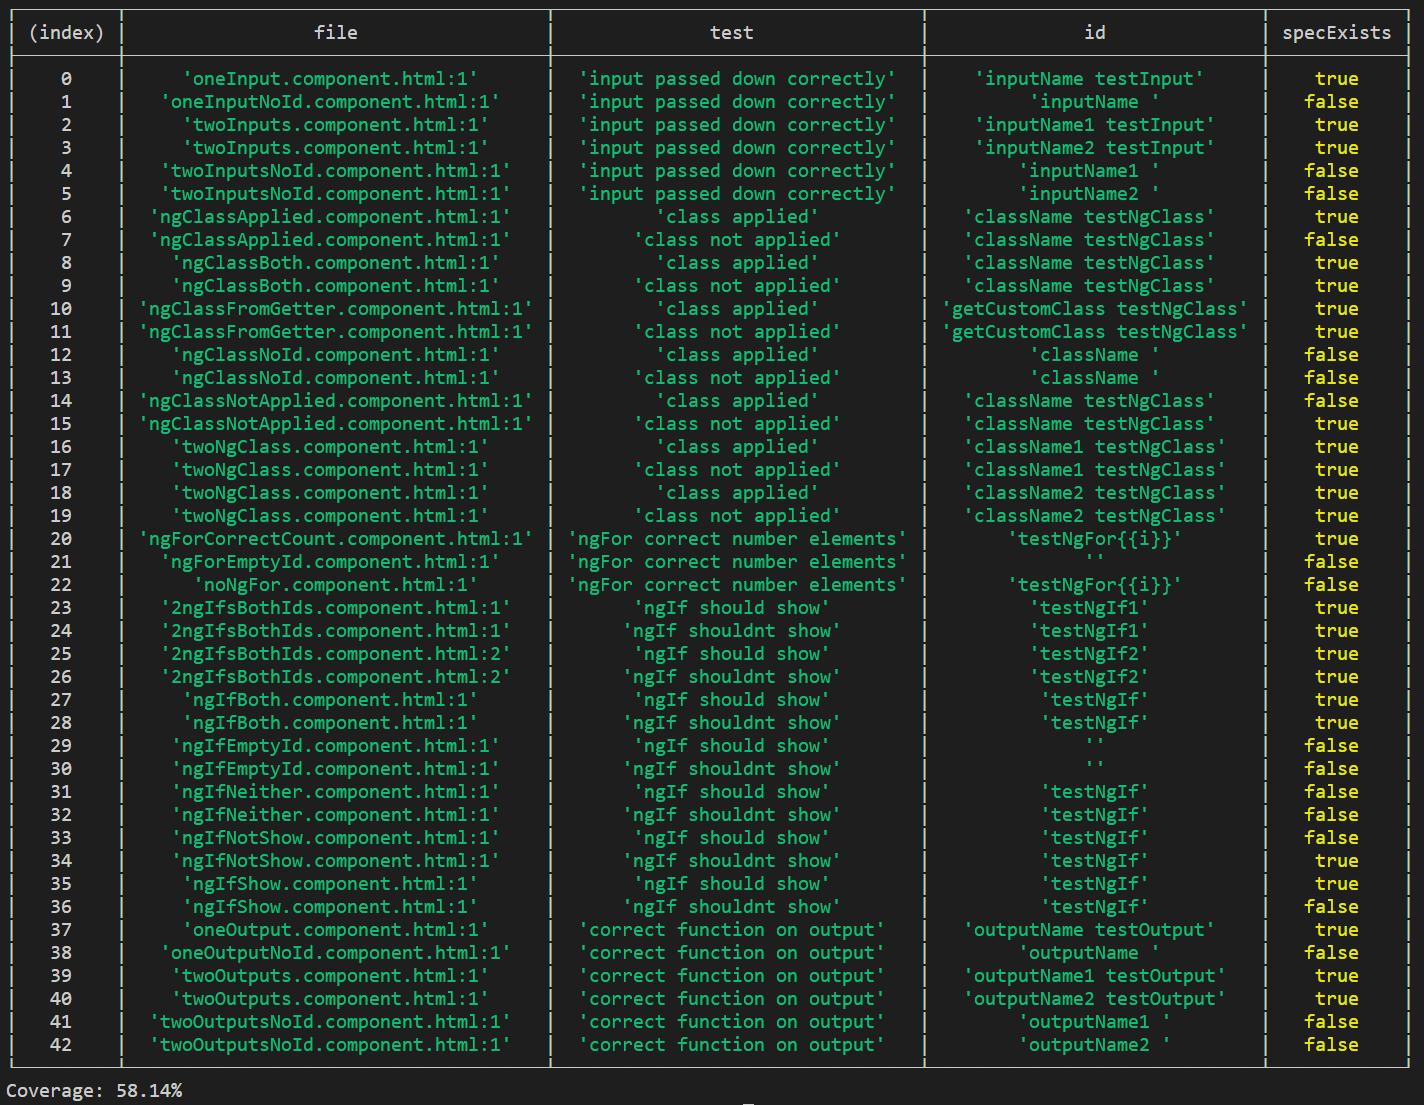
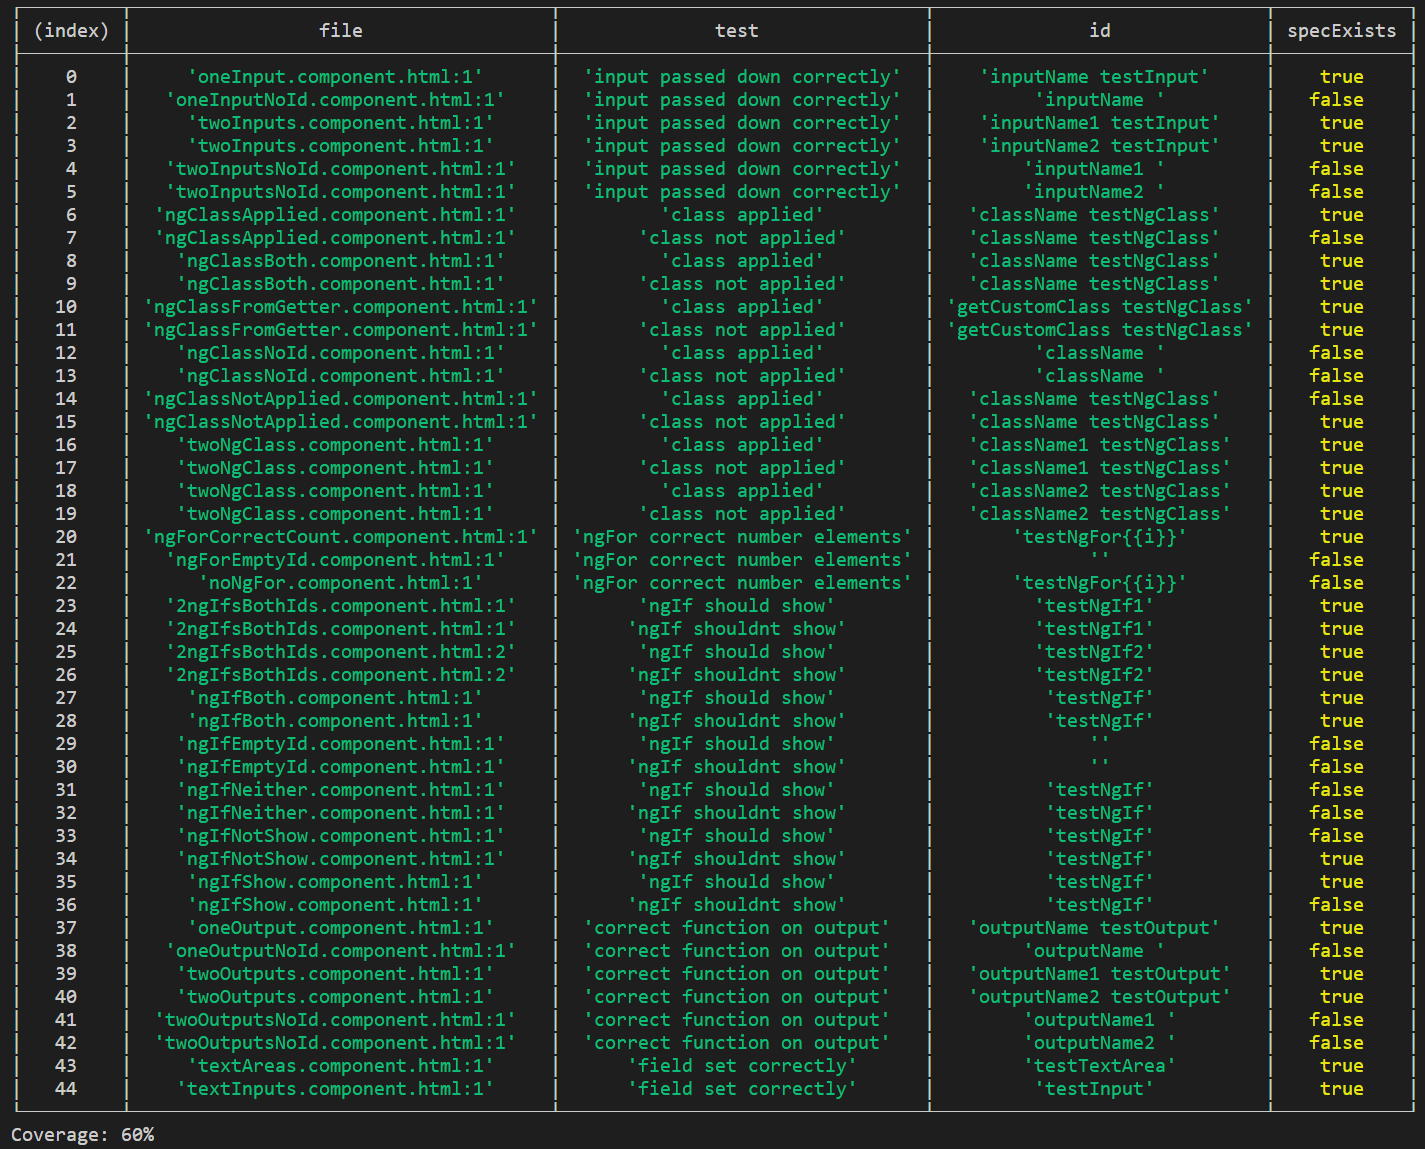
Fixed text area

Changed region(s): [[0.0, 0.0, 1.0, 1.0], [0.7416, 0.0, 0.8034, 0.0308]]

diff --git a/template-coverage.js b/template-coverage.js
@@ -454,7 +454,7 @@ export default class TemplateCoverage {
 
     // Get a list of all the text area elements
     findTextAreaElements(file) {
-        const regexToSearchFor = /<textArea[^<>]*>/g; // <textArea something>
+        const regexToSearchFor = /<textarea[^<>]*>/g; // <textarea something>
         const ngClassElements = file.match(regexToSearchFor);
         return ngClassElements;
     }

diff --git a/test/setField/textAreas/textAreas.component.html b/test/setField/textAreas/textAreas.component.html
@@ -1,2 +1,2 @@
-<textArea id="testTextArea" formControlName="testControlName">
-</textArea>
+<textarea id="testTextArea" formControlName="testControlName">
+</textarea>

diff --git a/README.md b/README.md
@@ -2,7 +2,7 @@
 
 This is a script to check unit tests exist for your Angular HTML templates. It checks for unit tests with titles that include the id of the html elements.
 
-Version: 3.3.4
+Version: 3.3.7
 Updated: 26th Jan 2021
 
 It checks for:
@@ -18,8 +18,11 @@ It checks for:
 * ngClass -
     * A test for each class in ngClass to check that the class is applied. The title of the test should contain the words 'should apply' and then the name of the class and the id of the element. e.g. 'should apply show testId'.
     * A test for each class in ngClass to check that the class is not applied. The title of the test should contain the words 'should not apply' and then the name of the class and the id of the element. e.g. 'should not apply show testId'.
+* fields set correctly - 
+    * A test for each input element to check the correct field updates when the user enters a new value. The title of the test should contain the words 'set the field' and then the id of the element. e.g. 'set the field testId'.
+    * A test for each textarea element to check the correct field updates when the user enters a new value. The title of the test should contain the words 'set the field' and then the id of the element. e.g. 'set the field testId'.
 
-![Imgur](https://i.imgur.com/4HO3PIU.png)
+![Imgur](https://i.imgur.com/bm1piY1.png)
 
 It will print out the coverage percentage of your html templates. It will throw an error if the coverage is less than the failBelow limit you specify. Default is 80%.
 
